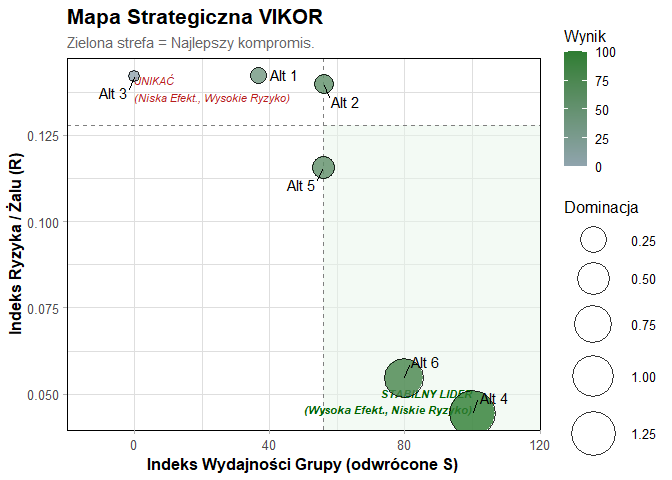
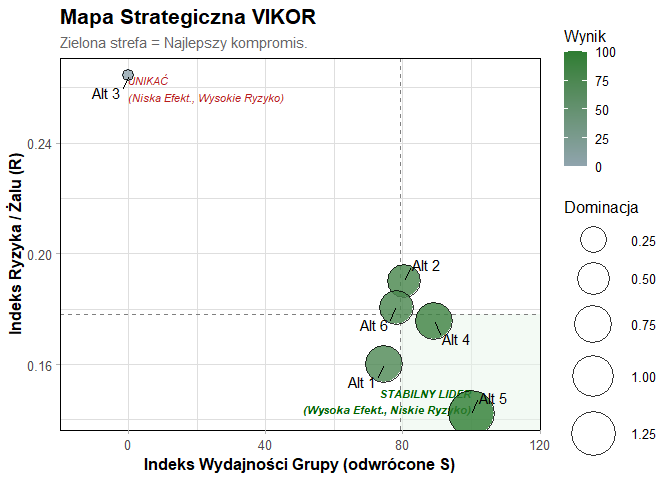
edycja readme

diff --git a/README.md b/README.md
@@ -75,17 +75,16 @@ macierz <- przygotuj_dane_mcda(
   kolumna_alternatyw = "Alternatywa" 
 )
 
-# 3. Wyznacz wagi metodą Entropii
-wagi_ent <- oblicz_wagi_entropii(macierz)
-
-# 4. Oblicz ranking metodą Fuzzy TOPSIS
+# 3. Oblicz ranking metodą Fuzzy TOPSIS
 res_topsis <- rozmyty_topsis(
   macierz_decyzyjna = macierz, 
   typy_kryteriow = c("min", "max", "max"), 
-  wagi = wagi_ent
+  bwm_najlepsze = c(8,3,1),
+  bwm_najgorsze = c(1,4,8)
 )
+#> Obliczanie wag metodą BWM...
 
-# 5. Wyświetl wyniki rankingu
+# 4. Wyświetl wyniki rankingu
 summary(res_topsis)
 #>        Length Class      Mode     
 #> wyniki 5      data.frame list     
@@ -114,8 +113,10 @@ rozmytej, co pozwala na uwzględnienie niepewności ocen eksperckich.
 res_topsis <- rozmyty_topsis(
   macierz_decyzyjna = macierz, 
   typy_kryteriow = c("min", "max", "max"), 
-  wagi = wagi_ent
+  bwm_najlepsze = c(8,3,1),
+  bwm_najgorsze = c(1,4,8)
 )
+#> Obliczanie wag metodą BWM...
 
 # Wykres rankingu TOPSIS - ocena bliskości do ideału
 plot(res_topsis)
@@ -151,8 +152,10 @@ płatniczej o najbardziej zrównoważonych parametrach.
 res_vikor <- rozmyty_vikor(
   macierz_decyzyjna = macierz, 
   typy_kryteriow = c("min", "max", "max"), 
-  wagi = wagi_ent
+  bwm_najlepsze = c(8,3,1),
+  bwm_najgorsze = c(1,4,8)
 )
+#> Obliczanie wag metodą BWM...
 
 # Wykres rankingu VIKOR - mapa kompromisu
 plot(res_vikor)
@@ -186,8 +189,8 @@ ranking_top <- ranking_final[order(ranking_final$Meta_Agregacja), ]
 
 # Wyświetlenie tabeli w dokumencie
 knitr::kable(
-  head(ranking_top, 3), 
-  caption = "Tabela 1: Top 3 systemy płatności według rankingu konsensusu"
+  ranking_top, 
+  caption = "Tabela 1: Pełny ranking systemów płatności według rankingu konsensusu"
 )
 ```
 
@@ -196,8 +199,11 @@ knitr::kable(
 | 5 | Przelewy24 | 1 | 1 | 1 | 1 | 1 | 1 | 1 | 1 |
 | 4 | Przelew_Bezposredni | 2 | 3 | 2 | 2 | 2 | 2 | 2 | 2 |
 | 1 | BLIK | 3 | 2 | 3 | 3 | 5 | 3 | 3 | 3 |
+| 6 | Stripe | 4 | 4 | 5 | 4 | 4 | 4 | 4 | 4 |
+| 2 | PayPal | 5 | 5 | 4 | 5 | 3 | 5 | 5 | 5 |
+| 3 | PayU | 6 | 6 | 6 | 6 | 6 | 6 | 6 | 6 |
 
-Tabela 1: Top 3 systemy płatności według rankingu konsensusu
+Tabela 1: Pełny ranking systemów płatności według rankingu konsensusu
 
 ## Dokumentacja
 